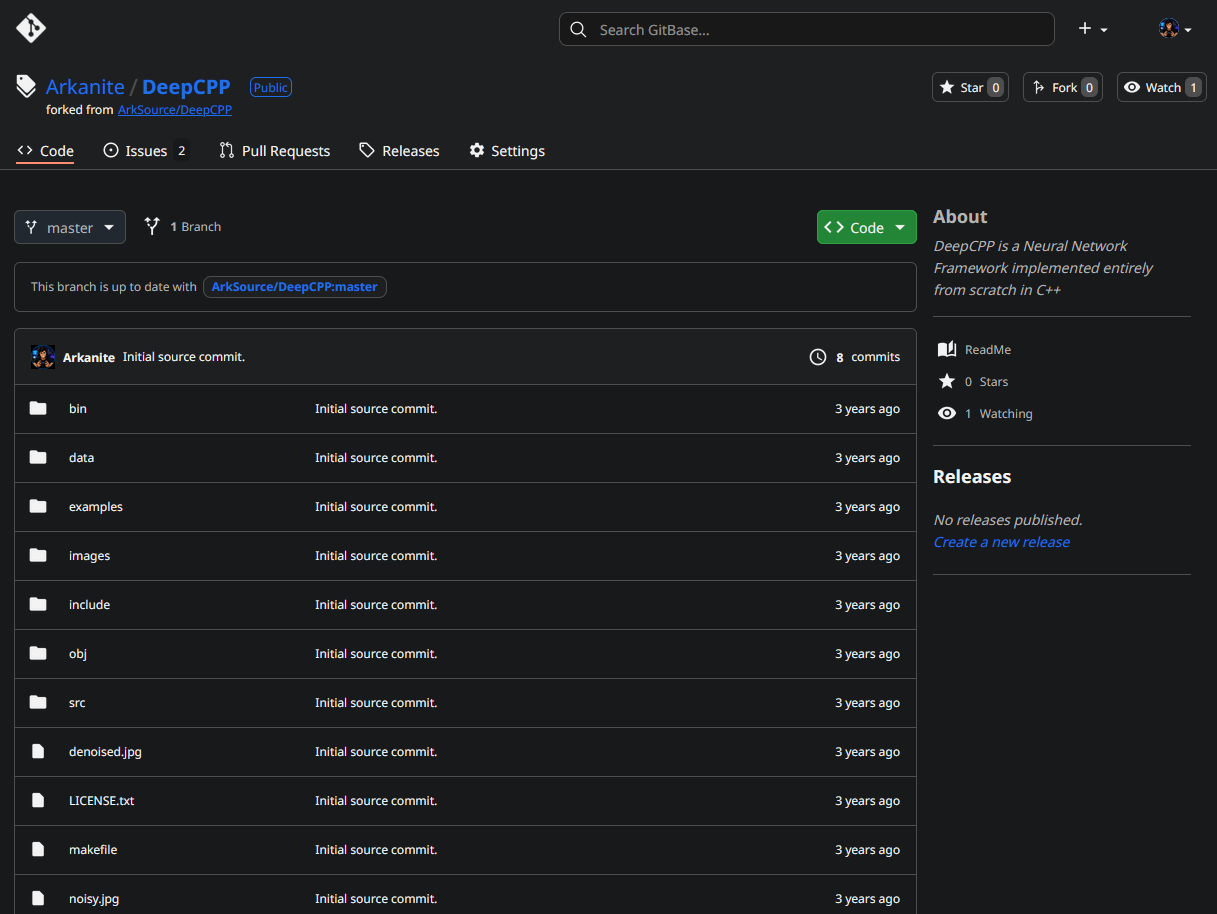
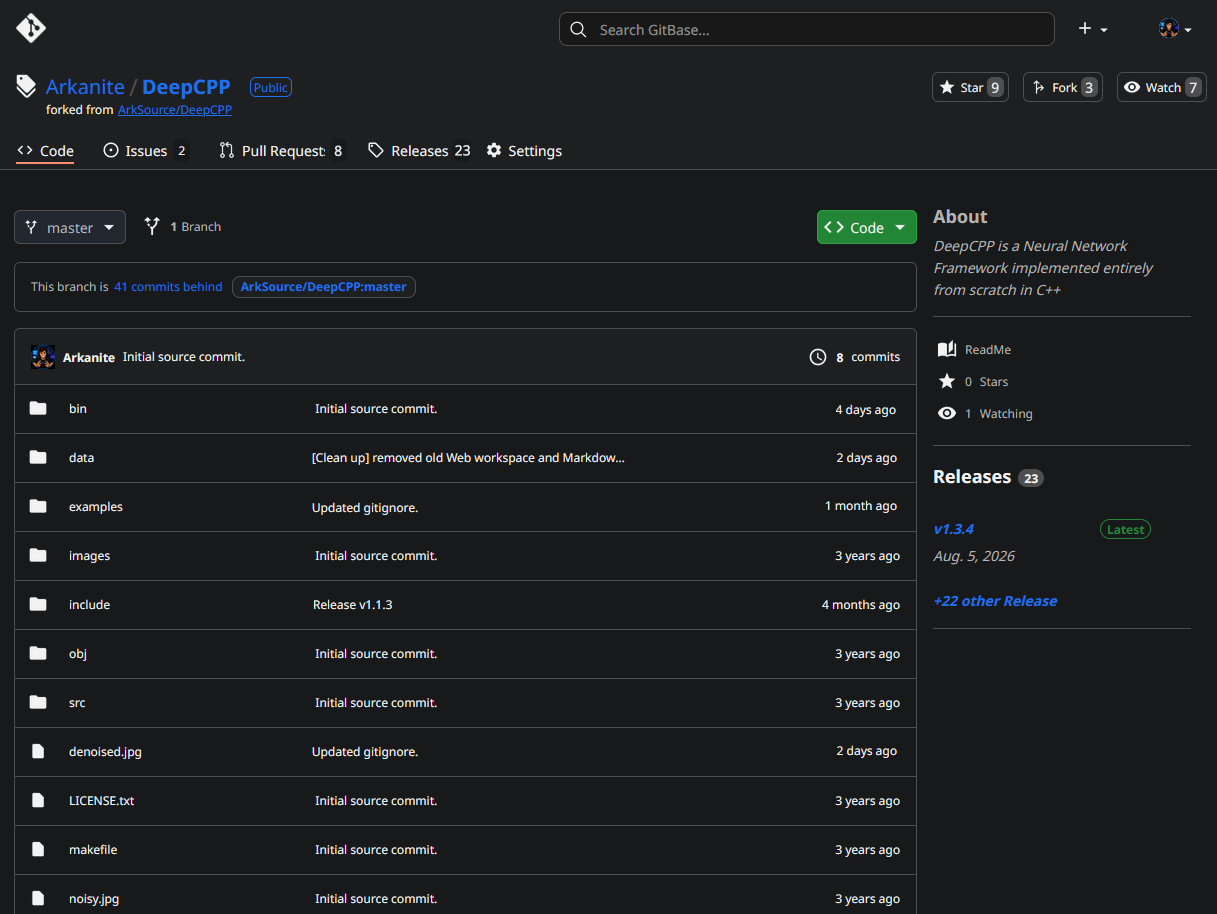
Cosmetic adjustments.

diff --git a/docs/documentation.md b/docs/documentation.md
@@ -18,7 +18,7 @@ This page serves as your central hub to explore all available documentation, gui
 
 ---
 
-## 🚀 Getting Started
+## Getting Started
 
 Begin your journey with GitBase by following these essential first steps. This guide covers installation, setup, and your initial repository experience.
 
@@ -26,7 +26,7 @@ Begin your journey with GitBase by following these essential first steps. This g
 
 ---
 
-## 📦 Repositories
+## Repositories
 
 Master repository creation, management, and collaboration with Git and SVN workflows using GitBase's intuitive interface.
 
@@ -38,7 +38,7 @@ Master repository creation, management, and collaboration with Git and SVN workf
 
 ---
 
-## 👥 Users & Accounts
+## Users & Accounts
 
 Explore user account management, profile settings, collaboration features, and team integration capabilities.
 
@@ -46,7 +46,7 @@ Explore user account management, profile settings, collaboration features, and t
 
 ---
 
-## 🔄 Pull Requests
+## Pull Requests
 
 Learn how to create, review, and manage pull requests for code reviews and feature contributions.
 
@@ -59,7 +59,7 @@ Learn how to create, review, and manage pull requests for code reviews and featu
 
 ---
 
-## 🐛 Issues
+## Issues
 
 Manage issues, track bugs, and coordinate bug fixes across your GitBase repositories.
 
@@ -72,7 +72,7 @@ Manage issues, track bugs, and coordinate bug fixes across your GitBase reposito
 
 ---
 
-## 🚀 Releases
+## Releases
 
 Manage software releases with version control, changelogs, and deployment workflows.
 
@@ -85,7 +85,7 @@ Manage software releases with version control, changelogs, and deployment workfl
 
 ---
 
-## 🔐 Permissions
+## Permissions
 
 Understand how GitBase manages access control, user permissions, and repository-level security settings.
 
@@ -98,7 +98,7 @@ Understand how GitBase manages access control, user permissions, and repository-
 
 ---
 
-## 💾 Backup & Restore
+## Backup & Restore
 
 Protect your GitBase server with built-in Snapshot backups.
 
@@ -110,7 +110,7 @@ Protect your GitBase server with built-in Snapshot backups.
 
 ---
 
-## ❓ FAQ
+## FAQ
 
 Find answers to the most common questions about GitBase functionality, troubleshooting tips, and clarifications on features.
 
@@ -118,7 +118,7 @@ Find answers to the most common questions about GitBase functionality, troublesh
 
 ---
 
-## 🗺 Roadmap
+## Roadmap
 
 See where GitBase is going next. Our roadmap provides insight into planned features, improvements, and future ideas as we continue to develop GitBase.
 

diff --git a/README.md b/README.md
@@ -27,6 +27,7 @@
 </div>
 
 ![screen1.png](assets/banner.png)
+[Discuss, ask questions & request features](../../discussions)
 
 
 ## What is GitBase?
@@ -108,16 +109,11 @@ GitBase --> Database
 ## Documentation
 - [Documentation](docs/documentation.md)
 - [FAQ](docs/faq.md)
-- [Roadmap](docs/roadmap.md)
 
 
 ## Support
-- GitHub Discussions: [Discuss & ask questions](../../discussions)
-- Issues: [Report bugs or request features](https://github.com/ArkSource/GitBase/issues)
-
-
-## Changelog
-See [Release Notes](https://github.com/ArkSource/GitBase/wiki/Release-Notes) for detailed changes.
+- GitHub Discussions: [Discuss, ask questions & request features](../../discussions)
+- Issues: [Report bugs](https://github.com/ArkSource/GitBase/issues)
 
 
 ## License
